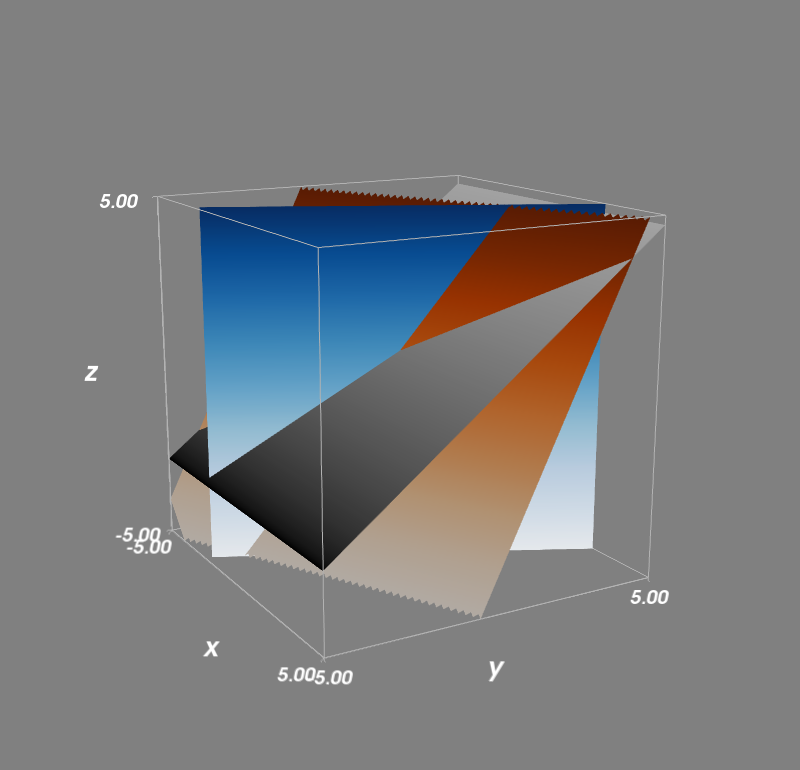
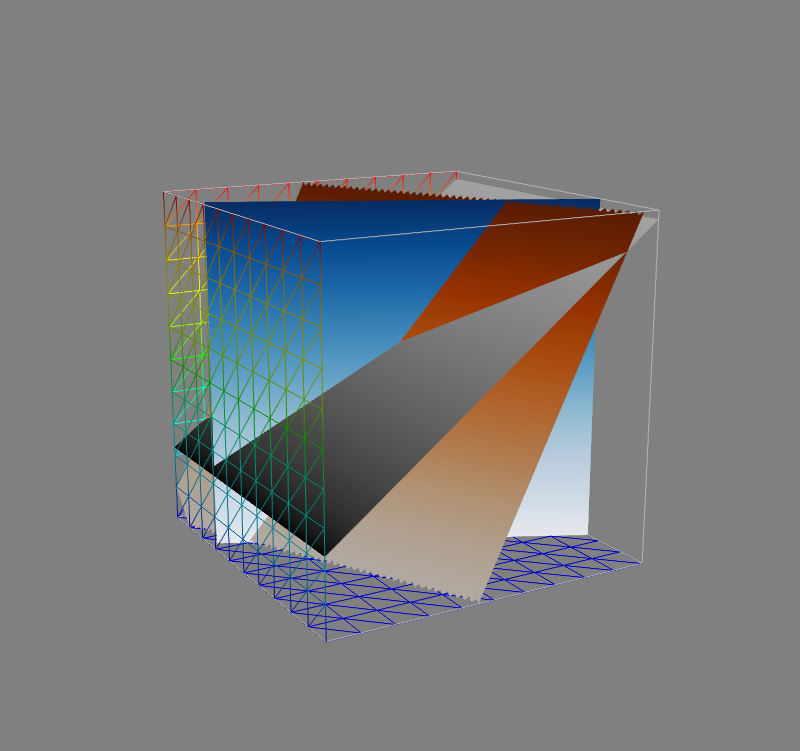
add edge grid for 3d scope box

diff --git a/lesson1/lesson1_3d_row_picture.py b/lesson1/lesson1_3d_row_picture.py
@@ -1,9 +1,6 @@
 # generate data
 import os
 from mayavi import mlab
-from mayavi.modules.api import GridPlane
-from mayavi.core.engine import Engine
-from mayavi.tools.show import show
 import numpy as np
 
 limit = 5
@@ -34,6 +31,22 @@ from sys import version_info
 if version_info[0] < 3:
     import pyface.qt
 
+def xyz_edge_grid(xstart, xend, ystart, yend, zstart, zend):
+    w = 11
+    h = 11
+    X1, Y1 = np.mgrid[xstart:xend:w*1j, ystart:yend:h*1j]
+    Z1 = np.full((w, h), zstart)
+    
+    Y2, Z2 = np.mgrid[ystart:yend:w*1j, zstart:zend:h*1j]
+    X2 = np.full((w, h), xstart)
+    
+    X3, Z3 = np.mgrid[xstart:xend:w*1j, zstart:zend:h*1j]
+    Y3 = np.full((w, h), ystart)
+
+    mlab.mesh(X1, Y1, Z1, representation='wireframe')
+    mlab.mesh(X2, Y2, Z2, representation='wireframe')
+    mlab.mesh(X3, Y3, Z3, representation='wireframe')
+
 def crop_xyz(x, y, z, limit):
     x[x>limit] = np.nan
     x[x<-limit] = np.nan
@@ -42,8 +55,9 @@ def crop_xyz(x, y, z, limit):
     z[z>limit] = np.nan
     z[z<-limit] = np.nan
 
-def gen_surfaces(e):
-#    fig = mlab.figure(size=(800, 800))
+def gen_surfaces():
+    mlab.figure(size=(800, 800))
+    xyz_edge_grid(-limit, limit, -limit, limit, -limit, limit)
 
     ax_ranges = [-limit, limit, -limit, limit, -limit, limit]
     ax_scale = [1.0, 1.0, 1.0]
@@ -55,63 +69,15 @@ def gen_surfaces(e):
     surf1 = mlab.mesh(X1, Y1, Z1, colormap='Blues')
     surf2 = mlab.mesh(X2, Y2, Z2, colormap='Oranges')
     surf3 = mlab.mesh(X3, Y3, Z3, colormap='black-white')
-#    v  = mlab.view(-30, 75, 8*limit, [0, 0, 0])
-    ol = mlab.outline(surf3, color=(.7, .7, .7), extent=ax_extent)
-    ax = mlab.axes(surf3, color=(.7, .7, .7), extent=ax_extent,
-              ranges=ax_ranges,
-              xlabel='x', ylabel='y', zlabel='z')
+    mlab.view(-30, 75, 8*limit, [0, 0, 0])
+    mlab.outline(surf3, color=(.7, .7, .7), extent=ax_extent)
+    #mlab.axes(surf3, color=(.7, .7, .7), extent=ax_extent,
+    #          ranges=ax_ranges,
+    #          xlabel='x', ylabel='y', zlabel='z')
 
-#    if transparency:
-#        surf3.actor.property.opacity = 0.5
-#        surf4.actor.property.opacity = 0.5
-#        fig.scene.renderer.use_depth_peeling = 1
-    e.add_module(surf1)
-    e.add_module(surf2)
-    e.add_module(surf3)
-    
-#    e.add_module(v)
-    e.add_module(ol)
-    e.add_module(ax)
 
-def gen_grid_plane(e):
-    gp1 = GridPlane()
-    e.add_module(gp1)
-    
-    gp2 = GridPlane()
-    gp2.grid_plane.axis = 'y'
-    gp2.grid_plane.position = 1
-    e.add_module(gp2)
+gen_surfaces()
 
-    gp3 = GridPlane()
-    gp3.grid_plane.axis = 'z'
-    gp3.grid_plane.position = limit
-    e.add_module(gp3)
+mlab.savefig(os.path.basename(__file__).replace(".py", "")+".png")
+mlab.show()
 
-e = Engine()
-e.start()
-e.new_scene()
-
-gen_surfaces(e)
-gen_grid_plane(e)
-
-e.current_scene.render()
-show()
-e.stop()
-
-#mlab.savefig(os.path.basename(__file__).replace(".py", "")+".png")
-
-#mlab.show()
-#v2_mayavi(True)
-
-# To install mayavi, the following currently works for me (Windows 10):
-#
-#   conda create --name mayavi_test_py2 python=2.7 matplotlib mayavi=4.4.0
-#    (installs pyqt=4.10.4 mayavi=4.4.0 vtk=5.10.1)
-#    * the `use_depth_peeling=1` got no effect. Transparency is not correct.
-#    * requires `import pyface.qt` or similar workaround
-#
-# or
-#
-#   conda create --name mayavi_test_py3 python=3.6 matplotlib
-#   conda activate mayavi_test_py3
-#   pip install mayavi
